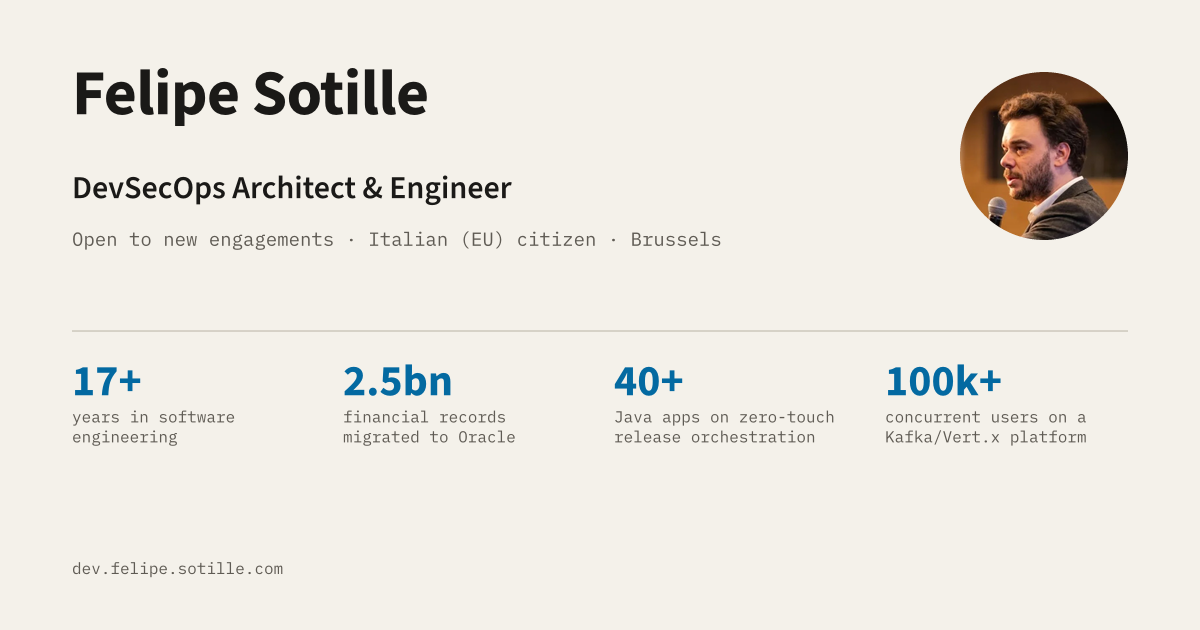
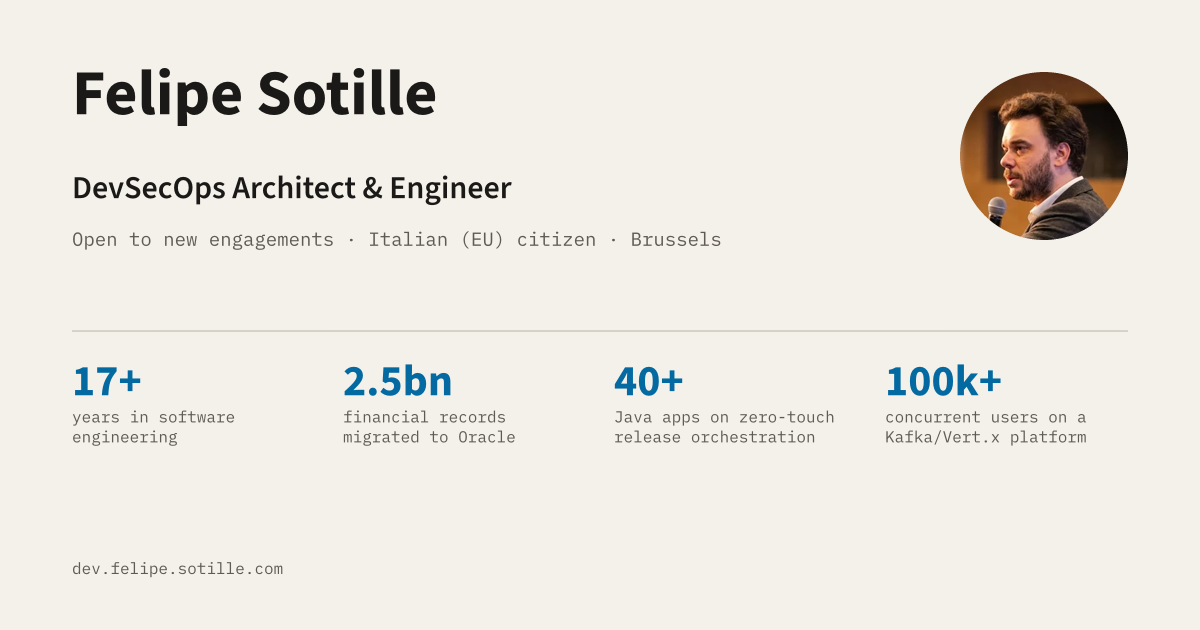
Publish the site from sotille/CV@9ebc1e7: phone on the pages, last drifts closed
Claude-Session: https://claude.ai/code/session_01NQ5163C1gk89qioUue7r11

Changed region(s): [[0.0925, 0.0905, 0.37, 0.181]]

diff --git a/cv.html b/cv.html
@@ -28,7 +28,7 @@ h1{font-size:var(--fs-h1);font-weight:700}
 h2{font-size:var(--fs-h2);font-weight:700}
 h3{font-size:var(--fs-h3);font-weight:600}
 p,ul,ol,dl,dd,figure,blockquote{margin:0}
-b,strong{font-weight:700}
+b,strong{font-weight:600}
 a{padding-block:.1875rem;color:var(--accent);text-decoration-line:underline;text-decoration-thickness:1px;text-underline-offset:.18em;transition:color var(--transition),background-color var(--transition),border-color var(--transition)}
 a:hover{color:var(--accent-hover);text-decoration-thickness:2px}
 :focus-visible{outline:var(--focus) solid var(--accent);outline-offset:2px}
@@ -138,7 +138,7 @@ main:focus{outline:none}
   "@type": "ProfilePage",
   "url": "https://dev.felipe.sotille.com/cv.html",
   "name": "Felipe Sotille — DevSecOps Architect & Engineer",
-  "dateModified": "2026-10-08",
+  "dateModified": "2026-10-09",
   "inLanguage": "en",
   "isPartOf": {
     "@type": "WebSite",
@@ -150,10 +150,11 @@ main:focus{outline:none}
     "@id": "https://dev.felipe.sotille.com/#person",
     "name": "Felipe Sotille",
     "jobTitle": "DevSecOps Architect & Engineer",
-    "description": "DevSecOps architect and hands-on engineer for regulated, high-availability platforms (SWIFT, Swissquote). I design the release-orchestration and security standards that squads ship through, then coach 5+ squads until the standard holds: golden-path pipelines, SBOM, policy-as-code and DORA-aligned controls. I still ship code (Java tooling at SWIFT); before that, Java 21 and Spring on regulated platforms, Vert.x and Kafka at scale. I govern coding agents (Claude Code, Codex, Devin) with the same gates as human-written code.",
+    "description": "DevSecOps architect and hands-on engineer for regulated, high-availability platforms (SWIFT, Swissquote). I design the release-orchestration and security standards that squads ship through, then coach 5+ squads until the standard holds: golden-path pipelines, SBOM, policy-as-code and DORA-aligned controls. I still ship code (Java tooling at SWIFT); before that, Java 21 and Spring at Swissquote, Vert.x and Kafka at scale. I govern coding agents (Claude Code, Codex, Devin) with the same gates as human-written code.",
     "url": "https://dev.felipe.sotille.com/",
     "image": "https://dev.felipe.sotille.com/assets/felipe-avatar.jpg",
     "email": "mailto:fsotille@gmail.com",
+    "telephone": "+32 456 25 04 29",
     "address": {
       "@type": "PostalAddress",
       "addressLocality": "Brussels",
@@ -225,7 +226,7 @@ main:focus{outline:none}
 <a class="skip" href="#main">Skip to content</a>
 <header class="site-header"><div class="container"><a class="brand" href="/"><img src="/assets/felipe-avatar.jpg" alt="" width="32" height="32"><span>Felipe Sotille</span></a><nav class="nav" aria-label="Sections"><ul><li><a href="#experience">Experience</a></li><li><a href="#frameworks">Frameworks</a></li><li><a href="#downloads">Downloads</a></li><li><a href="#contact">Contact</a></li></ul></nav></div></header>
 <main id="main" class="container" tabindex="-1">
-<div class="hero"><h1>Felipe Sotille</h1><p class="hero-title">DevSecOps Architect &amp; Engineer</p><p class="hero-meta mono"><span class="nowrap">Open to new engagements</span> · <span class="nowrap">Italian (EU) citizen</span> · <span class="nowrap">Brussels</span></p><p class="hero-summary measure">DevSecOps architect and hands-on engineer for regulated, high-availability platforms (SWIFT, Swissquote). I design the release-orchestration and security standards that squads ship through, then coach 5+ squads until the standard holds: golden-path pipelines, SBOM, policy-as-code and DORA-aligned controls. I still ship code (Java tooling at SWIFT); before that, Java 21 and Spring on regulated platforms, Vert.x and Kafka at scale. I govern coding agents (Claude Code, Codex, Devin) with the same gates as human-written code.</p><div class="actions"><a class="btn btn-primary" href="/cv/Felipe-Sotille-DevSecOps-Architect.pdf">Download CV (PDF)</a><a class="btn" href="mailto:fsotille@gmail.com">Email</a></div><dl class="numbers"><div><dt>17+</dt><dd>years in software engineering</dd></div><div><dt>2.5bn</dt><dd>financial records migrated to Oracle</dd></div><div><dt>40+</dt><dd>Java apps on zero-touch release orchestration</dd></div><div><dt>100k+</dt><dd>concurrent users on a Kafka/Vert.x platform</dd></div></dl></div>
+<div class="hero"><h1>Felipe Sotille</h1><p class="hero-title">DevSecOps Architect &amp; Engineer</p><p class="hero-meta mono"><span class="nowrap">Open to new engagements</span> · <span class="nowrap">Italian (EU) citizen</span> · <span class="nowrap">Brussels</span></p><p class="hero-summary measure">DevSecOps architect and hands-on engineer for regulated, high-availability platforms (SWIFT, Swissquote). I design the release-orchestration and security standards that squads ship through, then coach 5+ squads until the standard holds: golden-path pipelines, SBOM, policy-as-code and DORA-aligned controls. I still ship code (Java tooling at SWIFT); before that, Java 21 and Spring at Swissquote, Vert.x and Kafka at scale. I govern coding agents (Claude Code, Codex, Devin) with the same gates as human-written code.</p><div class="actions"><a class="btn btn-primary" href="/cv/Felipe-Sotille-DevSecOps-Architect.pdf">Download CV (PDF)</a><a class="btn" href="mailto:fsotille@gmail.com">Email</a></div><dl class="numbers"><div><dt>17+</dt><dd>years in software engineering</dd></div><div><dt>2.5bn</dt><dd>financial records migrated to Oracle</dd></div><div><dt>40+</dt><dd>Java apps on zero-touch release orchestration</dd></div><div><dt>100k+</dt><dd>concurrent users on a Kafka/Vert.x platform</dd></div></dl></div>
 <section class="section" id="skills" aria-labelledby="skills-h"><p class="label">§ 01</p><h2 id="skills-h">Core skills</h2><div class="section-body"><dl class="kv"><div><dt>DevSecOps &amp; CI/CD</dt><dd>CloudBees CI (expert), CloudBees CD/RO (expert), Jenkins, SAST / DAST / SCA gates, SBOM &amp; supply-chain security, Policy as code, Platform engineering (golden paths), Secure SDLC, Ansible Automation Platform, Docker, Kubernetes, Linux, HashiCorp Vault</dd></div><div><dt>Backend</dt><dd>Java 8–21, Spring Boot / Security / Web, Vert.x, REST, GraphQL</dd></div><div><dt>Architecture</dt><dd>Microservices, Event-driven / CQRS, Apache Kafka, Hazelcast clustering</dd></div><div><dt>AI-assisted engineering</dt><dd>Claude Code, OpenAI Codex, Devin, Governed agentic workflows, AI-assisted code review</dd></div><div><dt>Cloud &amp; Data</dt><dd>AWS (EC2), Google Cloud Platform, Oracle, PostgreSQL, SQL tuning &amp; partitioning</dd></div><div><dt>Ways of working</dt><dd>Technical leadership &amp; mentoring, DevSecOps coaching, Standards &amp; enterprise-pattern adoption</dd></div><div><dt>Governance &amp; compliance</dt><dd>DORA (EU Digital Operational Resilience Act), Deployment governance</dd></div></dl></div></section>
 <section class="section" id="experience" aria-labelledby="experience-h"><p class="label">§ 02 · 4 positions since 2018</p><h2 id="experience-h">Experience</h2><div class="section-body"><div class="ruled"><article class="entry"><div class="entry-head"><h3>DevSecOps Architect (Customer Success Architect), <span class="org">SWIFT</span></h3><p class="entry-date"><time datetime="2025-01">Jan 2025</time> – Present</p></div><p class="entry-sub">Brussels, Belgium · Consultant</p><p class="entry-context">Returned to SWIFT in 2025 for the DevOps Engineering Services organisation: a regulated, multi-squad platform behind global secure financial messaging.</p><ul class="bullets"><li>Onboarded <b>40+</b> Java applications onto the centralised Release Orchestration platform (CloudBees CD/RO), zero-touch from commit to production; my team delivered 80%+ of the company KPI for 100% zero-touch.</li><li>Designed the CI/CD blueprints (golden paths) every onboarded squad ships through; coached <b>5+</b> squads as DevSecOps solutions architect and technical reference for secure delivery, enterprise patterns and standards.</li><li>Built <b>20+</b> orchestrated-patching pipelines covering 300+ VMs, cutting patching time by 40% and making patch cycles repeatable enough that teams trust them; core of the company KPI for 100% orchestrated VM patching.</li><li>Integrated SAST/DAST scanning into the standard pipelines of several critical applications, turning security findings into enforced gates in the secure SDLC.</li><li>Added SBOM generation and policy-as-code guardrails to the standard pipelines, giving supply-chain visibility and enforceable controls aligned with DORA&#x27;s ICT-risk and resilience requirements.</li><li>Built the automation and internal tooling in Java, Node.js and shell that improved developer experience, pipeline reliability and day-to-day operational efficiency.</li><li>Set the governance discipline for coding-agent work, scoped tasks, human review and the same security gates as human-written code, and shipped agent-first with Claude Code, OpenAI Codex and Devin.</li></ul></article><article class="entry"><div class="entry-head"><h3>Senior Software Engineer, <span class="org">Swissquote</span></h3><p class="entry-date"><time datetime="2024-07">Jul 2024</time> – <time datetime="2024-12">Dec 2024</time></p></div><p class="entry-sub">Geneva, Switzerland (hybrid) · Consultant</p><p class="entry-context">Swiss online bank; regulated, high-availability financial environment.</p><ul class="bullets"><li>Led the migration of a <b>2.5</b> billion-record financial database to Oracle, preserving data integrity and business continuity throughout.</li></ul></article><article class="entry"><div class="entry-head"><h3>Senior Software Engineer, <span class="org">SWIFT</span></h3><p class="entry-date"><time datetime="2019-07">Jul 2019</time> – <time datetime="2024-06">Jun 2024</time></p></div><p class="entry-sub">Brussels, Belgium · Consultant</p><p class="entry-context">Three squads over five years: Identity Management, Community Gateway and Knowledge Channels.</p><ul class="bullets"><li>Spearheaded the migration of the Identity Management monolith to a microservices architecture, keeping the service live for users throughout the transition.</li><li>Owned the container strategy for two squads as Docker champion, building and hardening the images and keeping them aligned with security and tooling standards.</li></ul></article><article class="entry"><div class="entry-head"><h3>Tech Lead &amp; Senior Software Engineer, <span class="org">Eleven Sports (formerly MyCujoo)</span></h3><p class="entry-date"><time datetime="2018-06">Jun 2018</time> – <time datetime="2019-06">Jun 2019</time></p></div><p class="entry-sub">Lisbon, Portugal</p><p class="entry-context">Sports media group (premium TV channels and OTT); first backend engineer on the player-experience platform, reporting to the CTO.</p><ul class="bullets"><li>Designed from scratch a cloud-native, clustered CQRS/event-driven microservices backend on Vert.x, built for high throughput and low latency.</li><li>Ran the platform on Kubernetes and GCP, supporting <b>hundreds of thousands</b> of concurrent interactions, with Prometheus/Grafana monitoring for availability.</li><li>Designed the CI/CD pipelines (CircleCI to GCP) the team shipped through.</li></ul></article></div></div></section>
 <section class="section" id="frameworks" aria-labelledby="frameworks-h"><p class="label">§ 03 · 3 of 9 frameworks</p><h2 id="frameworks-h">Frameworks</h2><p class="section-intro">Frameworks published under Techstream, my consultancy.</p><div class="section-body"><ul class="ruled" role="list"><li><h3><a href="https://github.com/sotille/release-orchestration-framework">Release Orchestration Framework</a></h3><p class="entry-text">Deployment governance and controlled delivery across environments.</p></li><li><h3><a href="https://github.com/sotille/software-supply-chain-security-framework">Software Supply Chain Security Framework</a></h3><p class="entry-text">Dependencies, build systems, artifacts and deployment environments.</p></li><li><h3><a href="https://github.com/sotille/ai-devsecops-framework">AI DevSecOps Framework</a></h3><p class="entry-text">Securing AI-assisted and agentic software delivery.</p></li></ul><p class="more"><a href="https://github.com/sotille">More on GitHub</a></p></div></section>
@@ -235,8 +236,8 @@ main:focus{outline:none}
 <section class="section" id="languages" aria-labelledby="languages-h"><p class="label">§ 07</p><h2 id="languages-h">Languages</h2><div class="section-body"><dl class="kv"><div><dt>Portuguese</dt><dd>Native</dd></div><div><dt>English</dt><dd>Fluent</dd></div><div><dt>French</dt><dd>B1 · intermediate</dd></div></dl></div></section>
 <section class="section" id="recommendations" aria-labelledby="recommendations-h"><p class="label">§ 08</p><h2 id="recommendations-h">What colleagues say</h2><div class="section-body"><ul class="ruled" role="list"><li><figure class="quote"><blockquote><p>A technical reference and mentor for multiple engineering teams, frequently sought out for guidance on secure software delivery and release orchestration.</p></blockquote><figcaption>Sudhir Indurti, Lead DevOps Engineer, SWIFT, 2026</figcaption></figure></li><li><figure class="quote"><blockquote><p>He does not merely automate tasks; he engineers repeatable, resilient delivery systems that improve deployment reliability, enforce secure coding standards and reduce operational risk.</p></blockquote><figcaption>Anastasios Lagos, DevSecOps Engineer, Mindwave (SWIFT programme), 2026</figcaption></figure></li><li><figure class="quote"><blockquote><p>Probably the most skilled developer I have ever met. Enthusiastic about new technologies and making things work.</p></blockquote><figcaption>Arnau Rovira, DevOps Engineer, Eleven Sports</figcaption></figure></li></ul></div></section>
 <section class="section" id="downloads" aria-labelledby="downloads-h"><p class="label">§ 09 · 4 versions</p><h2 id="downloads-h">Downloads</h2><p class="section-intro">The full CV in 4 versions, each as PDF (for portals and print) and Markdown (for search engines and AI assistants).</p><div class="section-body"><div class="panel"><ul class="ruled" role="list"><li><div class="entry-head"><h3>DevSecOps Architect &amp; Engineer</h3><p class="entry-date">Shown on this page</p></div><p class="entry-links"><span><a href="/cv/Felipe-Sotille-DevSecOps-Architect.pdf">PDF<span class="vh">, DevSecOps Architect &amp; Engineer</span></a> <span class="mono">PDF/A-2b · 2 pages · 99 KB</span></span><span><a href="/cv/Felipe-Sotille-DevSecOps-Architect.md">Markdown<span class="vh">, DevSecOps Architect &amp; Engineer</span></a> <span class="mono">7 KB</span></span></p></li><li><div class="entry-head"><h3>Senior Backend Engineer (Java)</h3></div><p class="entry-links"><span><a href="/cv/Felipe-Sotille-Backend-Engineer.pdf">PDF<span class="vh">, Senior Backend Engineer (Java)</span></a> <span class="mono">PDF/A-2b · 2 pages · 98 KB</span></span><span><a href="/cv/Felipe-Sotille-Backend-Engineer.md">Markdown<span class="vh">, Senior Backend Engineer (Java)</span></a> <span class="mono">7 KB</span></span></p></li><li><div class="entry-head"><h3>Principal DevSecOps Architect</h3></div><p class="entry-links"><span><a href="/cv/Felipe-Sotille-Principal-Architect.pdf">PDF<span class="vh">, Principal DevSecOps Architect</span></a> <span class="mono">PDF/A-2b · 2 pages · 96 KB</span></span><span><a href="/cv/Felipe-Sotille-Principal-Architect.md">Markdown<span class="vh">, Principal DevSecOps Architect</span></a> <span class="mono">7 KB</span></span></p></li><li><div class="entry-head"><h3>Tech Lead · Senior Software Engineer</h3></div><p class="entry-links"><span><a href="/cv/Felipe-Sotille-Tech-Lead.pdf">PDF<span class="vh">, Tech Lead · Senior Software Engineer</span></a> <span class="mono">PDF/A-2b · 2 pages · 97 KB</span></span><span><a href="/cv/Felipe-Sotille-Tech-Lead.md">Markdown<span class="vh">, Tech Lead · Senior Software Engineer</span></a> <span class="mono">7 KB</span></span></p></li></ul></div></div></section>
-<section class="section" id="contact" aria-labelledby="contact-h"><p class="label">§ 10</p><h2 id="contact-h">Contact</h2><p class="section-intro">Available for DevSecOps architecture, release-orchestration and secure-delivery engagements.</p><div class="section-body"><dl class="kv"><div><dt>Email</dt><dd><a href="mailto:fsotille@gmail.com">fsotille@gmail.com</a></dd></div><div><dt>LinkedIn</dt><dd><a href="https://linkedin.com/in/Felipe-Sotille">linkedin.com/in/Felipe-Sotille</a></dd></div><div><dt>GitHub</dt><dd><a href="https://github.com/sotille">github.com/sotille</a></dd></div><div><dt>Medium</dt><dd><a href="https://medium.com/@fsotille">medium.com/@fsotille</a></dd></div></dl></div></section>
+<section class="section" id="contact" aria-labelledby="contact-h"><p class="label">§ 10</p><h2 id="contact-h">Contact</h2><p class="section-intro">Available for DevSecOps architecture, release-orchestration and secure-delivery engagements.</p><div class="section-body"><dl class="kv"><div><dt>Email</dt><dd><a href="mailto:fsotille@gmail.com">fsotille@gmail.com</a></dd></div><div><dt>Phone</dt><dd><a href="tel:+32456250429">+32 456 25 04 29</a></dd></div><div><dt>LinkedIn</dt><dd><a href="https://linkedin.com/in/Felipe-Sotille">linkedin.com/in/Felipe-Sotille</a></dd></div><div><dt>GitHub</dt><dd><a href="https://github.com/sotille">github.com/sotille</a></dd></div><div><dt>Medium</dt><dd><a href="https://medium.com/@fsotille">medium.com/@fsotille</a></dd></div></dl></div></section>
 </main>
-<footer class="site-footer"><div class="container"><p>Updated <time datetime="2026-10-08">2026-10-08</time></p></div></footer>
+<footer class="site-footer"><div class="container"><p>Updated <time datetime="2026-10-09">2026-10-09</time></p></div></footer>
 </body>
 </html>

diff --git a/index.html b/index.html
@@ -28,7 +28,7 @@ h1{font-size:var(--fs-h1);font-weight:700}
 h2{font-size:var(--fs-h2);font-weight:700}
 h3{font-size:var(--fs-h3);font-weight:600}
 p,ul,ol,dl,dd,figure,blockquote{margin:0}
-b,strong{font-weight:700}
+b,strong{font-weight:600}
 a{padding-block:.1875rem;color:var(--accent);text-decoration-line:underline;text-decoration-thickness:1px;text-underline-offset:.18em;transition:color var(--transition),background-color var(--transition),border-color var(--transition)}
 a:hover{color:var(--accent-hover);text-decoration-thickness:2px}
 :focus-visible{outline:var(--focus) solid var(--accent);outline-offset:2px}
@@ -158,16 +158,17 @@ main:focus{outline:none}
       "isPartOf": {
         "@id": "https://dev.felipe.sotille.com/#website"
       },
-      "dateModified": "2026-10-08",
+      "dateModified": "2026-10-09",
       "mainEntity": {
         "@type": "Person",
         "@id": "https://dev.felipe.sotille.com/#person",
         "name": "Felipe Sotille",
         "jobTitle": "DevSecOps Architect & Engineer",
-        "description": "DevSecOps architect and hands-on engineer for regulated, high-availability platforms (SWIFT, Swissquote). I design the release-orchestration and security standards that squads ship through, then coach 5+ squads until the standard holds: golden-path pipelines, SBOM, policy-as-code and DORA-aligned controls. I still ship code (Java tooling at SWIFT); before that, Java 21 and Spring on regulated platforms, Vert.x and Kafka at scale. I govern coding agents (Claude Code, Codex, Devin) with the same gates as human-written code.",
+        "description": "DevSecOps architect and hands-on engineer for regulated, high-availability platforms (SWIFT, Swissquote). I design the release-orchestration and security standards that squads ship through, then coach 5+ squads until the standard holds: golden-path pipelines, SBOM, policy-as-code and DORA-aligned controls. I still ship code (Java tooling at SWIFT); before that, Java 21 and Spring at Swissquote, Vert.x and Kafka at scale. I govern coding agents (Claude Code, Codex, Devin) with the same gates as human-written code.",
         "url": "https://dev.felipe.sotille.com/",
         "image": "https://dev.felipe.sotille.com/assets/felipe-avatar.jpg",
         "email": "mailto:fsotille@gmail.com",
+        "telephone": "+32 456 25 04 29",
         "address": {
           "@type": "PostalAddress",
           "addressLocality": "Brussels",
@@ -245,8 +246,8 @@ main:focus{outline:none}
 <section class="section" id="work" aria-labelledby="work-h"><p class="label">§ 01</p><h2 id="work-h">CV and newsletter</h2><div class="section-body"><ul class="ruled" role="list"><li class="entry"><h3>CV</h3><p class="entry-text">The full CV in 4 versions: DevSecOps Architect &amp; Engineer; Senior Backend Engineer (Java); Principal DevSecOps Architect; Tech Lead · Senior Software Engineer.</p><p class="entry-links"><span><a href="/cv/Felipe-Sotille-DevSecOps-Architect.pdf">Download PDF (DevSecOps Architect &amp; Engineer)</a> <span class="mono">99 KB</span></span><a href="/cv.html#downloads">All versions</a></p></li><li class="entry"><h3>Techstream Weekly</h3><p class="entry-text">Five items every Friday, each with one line of fact and one line of opinion, for people who ship software on regulated platforms. Plus one thing from me.</p><p class="entry-links"><a href="https://techstream.app/en/news" hreflang="en">Read Techstream Weekly</a></p></li></ul></div></section>
 <section class="section" id="articles" aria-labelledby="articles-h"><p class="label">§ 02 · 3 articles</p><h2 id="articles-h">Articles</h2><p class="section-intro">On supply-chain security, SBOM integrity and DevSecOps transformation.</p><div class="section-body"><ul class="ruled" role="list"><li><div class="entry-head"><h3>Why Your AI Agent Is the Next SolarWinds: Supply Chain Security for the Agentic Era</h3><p class="entry-date"><time datetime="2026-05">May 2026</time></p></div><p class="entry-text">The SBOM architecture problem, applied to coding agents.</p></li><li><div class="entry-head"><h3>The Four Layers of Software Supply Chain Integrity</h3><p class="entry-date"><time datetime="2026-05">May 2026</time></p></div><p class="entry-text">Why most SBOMs are theatre, and what actually works.</p></li><li><div class="entry-head"><h3>The 4-Phase DevSecOps Transformation</h3><p class="entry-date"><time datetime="2026-04">Apr 2026</time></p></div><p class="entry-text">A 90-day journey from policy to practice.</p></li></ul><p class="more"><a href="https://medium.com/@fsotille">All articles on Medium</a></p></div></section>
 <section class="section" id="frameworks" aria-labelledby="frameworks-h"><p class="label">§ 03 · 9 frameworks</p><h2 id="frameworks-h">Frameworks</h2><p class="section-intro">Frameworks published under Techstream, my consultancy.</p><div class="section-body"><ul class="ruled" role="list"><li><h3><a href="https://github.com/sotille/release-orchestration-framework">Release Orchestration Framework</a></h3><p class="entry-text">Deployment governance and controlled delivery across environments.</p></li><li><h3><a href="https://github.com/sotille/software-supply-chain-security-framework">Software Supply Chain Security Framework</a></h3><p class="entry-text">Dependencies, build systems, artifacts and deployment environments.</p></li><li><h3><a href="https://github.com/sotille/secure-ci-cd-reference-architecture">Secure CI/CD Reference Architecture</a></h3><p class="entry-text">Reference architectures for secure pipelines, cloud-native and enterprise.</p></li><li><h3><a href="https://github.com/sotille/devsecops-framework">DevSecOps Framework</a></h3><p class="entry-text">Principles, architecture patterns, security controls and implementation guidelines.</p></li><li><h3><a href="https://github.com/sotille/devsecops-maturity-model">DevSecOps Maturity Model</a></h3><p class="entry-text">Assess and guide organisations towards secure software delivery.</p></li><li><h3><a href="https://github.com/sotille/compliance-automation-framework">Compliance Automation Framework</a></h3><p class="entry-text">Automating security and compliance controls across pipelines and cloud.</p></li><li><h3><a href="https://github.com/sotille/ai-devsecops-framework">AI DevSecOps Framework</a></h3><p class="entry-text">Securing AI-assisted and agentic software delivery.</p></li><li><h3><a href="https://github.com/sotille/devsecops-methodology">DevSecOps Methodology</a></h3><p class="entry-text">Processes, governance, tooling and transformation roadmap.</p></li><li><h3><a href="https://github.com/sotille/forensics-and-incident-response-framework">Forensics &amp; Incident Response Framework</a></h3><p class="entry-text">Evidence handling, incident response and post-mortems for delivery platforms.</p></li></ul><p class="more"><a href="https://github.com/sotille">More on GitHub</a></p></div></section>
-<section class="section" id="contact" aria-labelledby="contact-h"><p class="label">§ 04</p><h2 id="contact-h">Contact</h2><p class="section-intro">Available for DevSecOps architecture, release-orchestration and secure-delivery engagements.</p><div class="section-body"><dl class="kv"><div><dt>Email</dt><dd><a href="mailto:fsotille@gmail.com">fsotille@gmail.com</a></dd></div><div><dt>LinkedIn</dt><dd><a href="https://linkedin.com/in/Felipe-Sotille">linkedin.com/in/Felipe-Sotille</a></dd></div><div><dt>GitHub</dt><dd><a href="https://github.com/sotille">github.com/sotille</a></dd></div><div><dt>Medium</dt><dd><a href="https://medium.com/@fsotille">medium.com/@fsotille</a></dd></div></dl></div></section>
+<section class="section" id="contact" aria-labelledby="contact-h"><p class="label">§ 04</p><h2 id="contact-h">Contact</h2><p class="section-intro">Available for DevSecOps architecture, release-orchestration and secure-delivery engagements.</p><div class="section-body"><dl class="kv"><div><dt>Email</dt><dd><a href="mailto:fsotille@gmail.com">fsotille@gmail.com</a></dd></div><div><dt>Phone</dt><dd><a href="tel:+32456250429">+32 456 25 04 29</a></dd></div><div><dt>LinkedIn</dt><dd><a href="https://linkedin.com/in/Felipe-Sotille">linkedin.com/in/Felipe-Sotille</a></dd></div><div><dt>GitHub</dt><dd><a href="https://github.com/sotille">github.com/sotille</a></dd></div><div><dt>Medium</dt><dd><a href="https://medium.com/@fsotille">medium.com/@fsotille</a></dd></div></dl></div></section>
 </main>
-<footer class="site-footer"><div class="container"><p>Updated <time datetime="2026-10-08">2026-10-08</time></p></div></footer>
+<footer class="site-footer"><div class="container"><p>Updated <time datetime="2026-10-09">2026-10-09</time></p></div></footer>
 </body>
 </html>

diff --git a/pt/index.html b/pt/index.html
@@ -28,7 +28,7 @@ h1{font-size:var(--fs-h1);font-weight:700}
 h2{font-size:var(--fs-h2);font-weight:700}
 h3{font-size:var(--fs-h3);font-weight:600}
 p,ul,ol,dl,dd,figure,blockquote{margin:0}
-b,strong{font-weight:700}
+b,strong{font-weight:600}
 a{padding-block:.1875rem;color:var(--accent);text-decoration-line:underline;text-decoration-thickness:1px;text-underline-offset:.18em;transition:color var(--transition),background-color var(--transition),border-color var(--transition)}
 a:hover{color:var(--accent-hover);text-decoration-thickness:2px}
 :focus-visible{outline:var(--focus) solid var(--accent);outline-offset:2px}
@@ -158,7 +158,7 @@ main:focus{outline:none}
       "isPartOf": {
         "@id": "https://dev.felipe.sotille.com/#website"
       },
-      "dateModified": "2026-10-08",
+      "dateModified": "2026-10-09",
       "mainEntity": {
         "@type": "Person",
         "@id": "https://dev.felipe.sotille.com/#person",
@@ -167,6 +167,7 @@ main:focus{outline:none}
         "url": "https://dev.felipe.sotille.com/",
         "image": "https://dev.felipe.sotille.com/assets/felipe-avatar.jpg",
         "email": "mailto:fsotille@gmail.com",
+        "telephone": "+32 456 25 04 29",
         "address": {
           "@type": "PostalAddress",
           "addressLocality": "Brussels",
@@ -244,8 +245,8 @@ main:focus{outline:none}
 <section class="section" id="work" aria-labelledby="work-h"><p class="label">§ 01</p><h2 id="work-h">CV e newsletter</h2><div class="section-body"><ul class="ruled" role="list"><li class="entry"><h3>CV</h3><p class="entry-text">O CV completo, em inglês, em 4 versões: <span lang="en">DevSecOps Architect &amp; Engineer</span>; <span lang="en">Senior Backend Engineer (Java)</span>; <span lang="en">Principal DevSecOps Architect</span>; <span lang="en">Tech Lead · Senior Software Engineer</span>.</p><p class="entry-links"><span><a href="/cv/Felipe-Sotille-DevSecOps-Architect.pdf" hreflang="en">Baixar PDF (<span lang="en">DevSecOps Architect &amp; Engineer</span>)</a> <span class="mono">99 KB</span></span><a href="/cv.html#downloads" hreflang="en">Todas as versões</a></p></li><li class="entry"><h3>Techstream Weekly</h3><p class="entry-text">Cinco itens toda sexta, cada um com uma linha de fato e uma de opinião, para quem entrega software em plataformas reguladas. E mais uma coisa minha.</p><p class="entry-links"><a href="https://techstream.app/pt/news" hreflang="pt-BR">Ler a Techstream Weekly</a></p></li></ul></div></section>
 <section class="section" id="articles" aria-labelledby="articles-h"><p class="label">§ 02 · 3 artigos</p><h2 id="articles-h">Artigos</h2><p class="section-intro">Sobre segurança da cadeia de suprimentos, integridade de SBOM e transformação DevSecOps.</p><div class="section-body"><ul class="ruled" role="list"><li><div class="entry-head"><h3 lang="en">Why Your AI Agent Is the Next SolarWinds: Supply Chain Security for the Agentic Era</h3><p class="entry-date"><time datetime="2026-05">maio de 2026</time></p></div><p class="entry-text" lang="en">The SBOM architecture problem, applied to coding agents.</p></li><li><div class="entry-head"><h3 lang="en">The Four Layers of Software Supply Chain Integrity</h3><p class="entry-date"><time datetime="2026-05">maio de 2026</time></p></div><p class="entry-text" lang="en">Why most SBOMs are theatre, and what actually works.</p></li><li><div class="entry-head"><h3 lang="en">The 4-Phase DevSecOps Transformation</h3><p class="entry-date"><time datetime="2026-04">abril de 2026</time></p></div><p class="entry-text" lang="en">A 90-day journey from policy to practice.</p></li></ul><p class="more"><a href="https://medium.com/@fsotille">Todos os artigos no Medium</a></p></div></section>
 <section class="section" id="frameworks" aria-labelledby="frameworks-h"><p class="label">§ 03 · 9 frameworks</p><h2 id="frameworks-h">Frameworks</h2><p class="section-intro">Frameworks publicados pela Techstream, minha consultoria.</p><div class="section-body"><ul class="ruled" role="list"><li><h3 lang="en"><a href="https://github.com/sotille/release-orchestration-framework">Release Orchestration Framework</a></h3><p class="entry-text" lang="en">Deployment governance and controlled delivery across environments.</p></li><li><h3 lang="en"><a href="https://github.com/sotille/software-supply-chain-security-framework">Software Supply Chain Security Framework</a></h3><p class="entry-text" lang="en">Dependencies, build systems, artifacts and deployment environments.</p></li><li><h3 lang="en"><a href="https://github.com/sotille/secure-ci-cd-reference-architecture">Secure CI/CD Reference Architecture</a></h3><p class="entry-text" lang="en">Reference architectures for secure pipelines, cloud-native and enterprise.</p></li><li><h3 lang="en"><a href="https://github.com/sotille/devsecops-framework">DevSecOps Framework</a></h3><p class="entry-text" lang="en">Principles, architecture patterns, security controls and implementation guidelines.</p></li><li><h3 lang="en"><a href="https://github.com/sotille/devsecops-maturity-model">DevSecOps Maturity Model</a></h3><p class="entry-text" lang="en">Assess and guide organisations towards secure software delivery.</p></li><li><h3 lang="en"><a href="https://github.com/sotille/compliance-automation-framework">Compliance Automation Framework</a></h3><p class="entry-text" lang="en">Automating security and compliance controls across pipelines and cloud.</p></li><li><h3 lang="en"><a href="https://github.com/sotille/ai-devsecops-framework">AI DevSecOps Framework</a></h3><p class="entry-text" lang="en">Securing AI-assisted and agentic software delivery.</p></li><li><h3 lang="en"><a href="https://github.com/sotille/devsecops-methodology">DevSecOps Methodology</a></h3><p class="entry-text" lang="en">Processes, governance, tooling and transformation roadmap.</p></li><li><h3 lang="en"><a href="https://github.com/sotille/forensics-and-incident-response-framework">Forensics &amp; Incident Response Framework</a></h3><p class="entry-text" lang="en">Evidence handling, incident response and post-mortems for delivery platforms.</p></li></ul><p class="more"><a href="https://github.com/sotille">Mais no GitHub</a></p></div></section>
-<section class="section" id="contact" aria-labelledby="contact-h"><p class="label">§ 04</p><h2 id="contact-h">Contato</h2><p class="section-intro">Disponível para projetos de arquitetura DevSecOps, orquestração de releases e entrega segura.</p><div class="section-body"><dl class="kv"><div><dt>E-mail</dt><dd><a href="mailto:fsotille@gmail.com">fsotille@gmail.com</a></dd></div><div><dt>LinkedIn</dt><dd><a href="https://linkedin.com/in/Felipe-Sotille">linkedin.com/in/Felipe-Sotille</a></dd></div><div><dt>GitHub</dt><dd><a href="https://github.com/sotille">github.com/sotille</a></dd></div><div><dt>Medium</dt><dd><a href="https://medium.com/@fsotille">medium.com/@fsotille</a></dd></div></dl></div></section>
+<section class="section" id="contact" aria-labelledby="contact-h"><p class="label">§ 04</p><h2 id="contact-h">Contato</h2><p class="section-intro">Disponível para projetos de arquitetura DevSecOps, orquestração de releases e entrega segura.</p><div class="section-body"><dl class="kv"><div><dt>E-mail</dt><dd><a href="mailto:fsotille@gmail.com">fsotille@gmail.com</a></dd></div><div><dt>Telefone</dt><dd><a href="tel:+32456250429">+32 456 25 04 29</a></dd></div><div><dt>LinkedIn</dt><dd><a href="https://linkedin.com/in/Felipe-Sotille">linkedin.com/in/Felipe-Sotille</a></dd></div><div><dt>GitHub</dt><dd><a href="https://github.com/sotille">github.com/sotille</a></dd></div><div><dt>Medium</dt><dd><a href="https://medium.com/@fsotille">medium.com/@fsotille</a></dd></div></dl></div></section>
 </main>
-<footer class="site-footer"><div class="container"><p>Atualizado em <time datetime="2026-10-08">2026-10-08</time></p></div></footer>
+<footer class="site-footer"><div class="container"><p>Atualizado em <time datetime="2026-10-09">2026-10-09</time></p></div></footer>
 </body>
 </html>

diff --git a/cv/Felipe-Sotille-DevSecOps-Architect.md b/cv/Felipe-Sotille-DevSecOps-Architect.md
@@ -18,7 +18,7 @@ Brussels, Belgium · [fsotille@gmail.com](mailto:fsotille@gmail.com) · +32 456 
 
 ## Profile
 
-DevSecOps architect and hands-on engineer for regulated, high-availability platforms (SWIFT, Swissquote). I design the release-orchestration and security standards that squads ship through, then coach 5+ squads until the standard holds: golden-path pipelines, SBOM, policy-as-code and DORA-aligned controls. I still ship code (Java tooling at SWIFT); before that, Java 21 and Spring on regulated platforms, Vert.x and Kafka at scale. I govern coding agents (Claude Code, Codex, Devin) with the same gates as human-written code.
+DevSecOps architect and hands-on engineer for regulated, high-availability platforms (SWIFT, Swissquote). I design the release-orchestration and security standards that squads ship through, then coach 5+ squads until the standard holds: golden-path pipelines, SBOM, policy-as-code and DORA-aligned controls. I still ship code (Java tooling at SWIFT); before that, Java 21 and Spring at Swissquote, Vert.x and Kafka at scale. I govern coding agents (Claude Code, Codex, Devin) with the same gates as human-written code.
 
 > A technical reference and mentor for multiple engineering teams, frequently sought out for guidance on secure software delivery and release orchestration.
 > — Sudhir Indurti, Lead DevOps Engineer, SWIFT, 2026

diff --git a/cv/Felipe-Sotille-Tech-Lead.md b/cv/Felipe-Sotille-Tech-Lead.md
@@ -70,7 +70,7 @@ Hands-on Tech Lead across finance and media. I led the backend team at Eleven Sp
 - Designed from scratch a cloud-native, clustered CQRS/event-driven microservices backend on Vert.x, built for high throughput and low latency.
 - Architected a real-time fan-engagement platform on Kafka enabling live, social-network-style interaction between football players and their fans.
 - Ran the platform on Kubernetes and GCP, supporting hundreds of thousands of concurrent interactions, with Prometheus/Grafana monitoring for availability.
-- Designed the CI/CD pipelines (CircleCI to GCP) the team shipped through.
+- Led and mentored the backend team, reported progress directly to the CTO and helped other teams adopt Vert.x.
 
 ## Open frameworks
 
